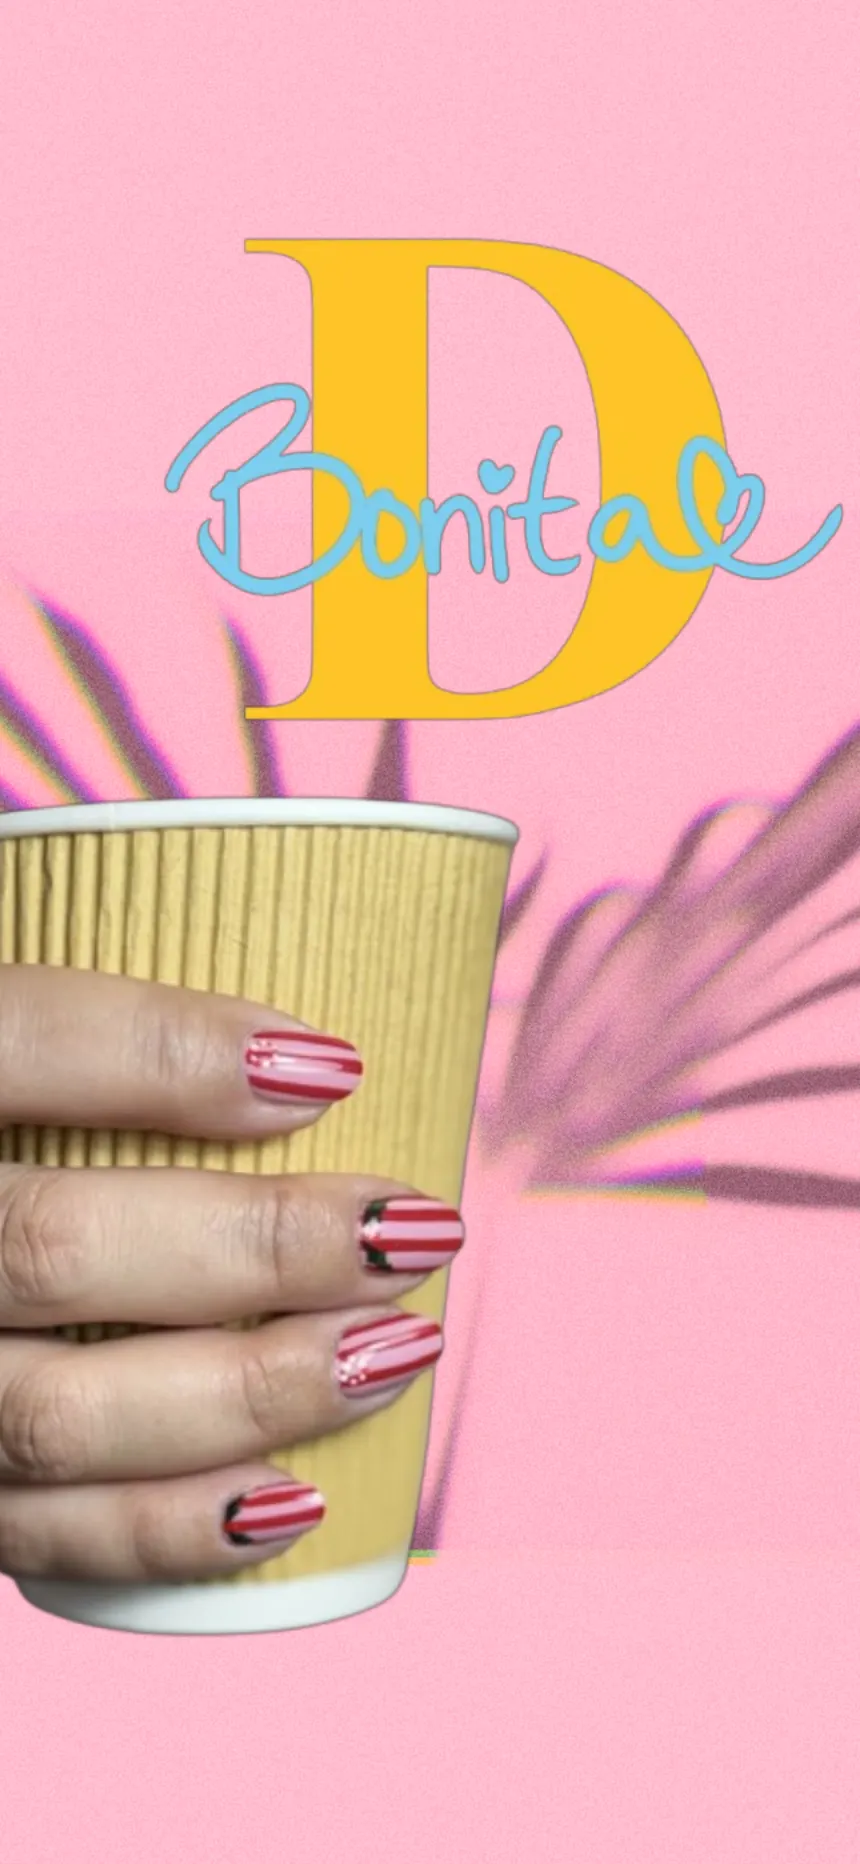
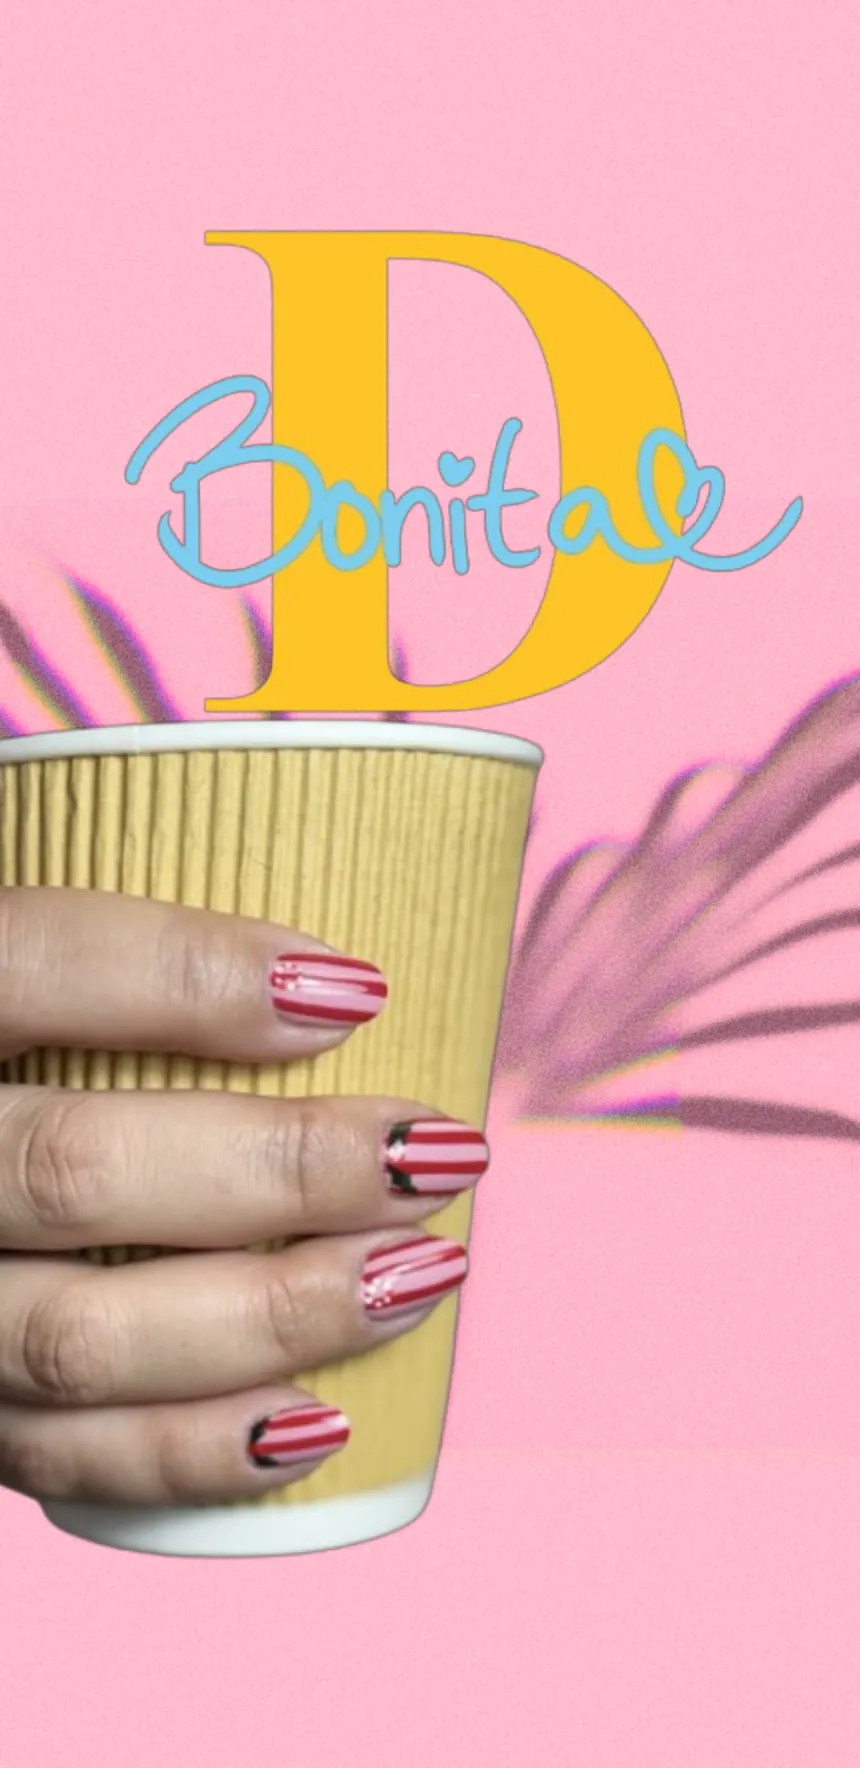
fix: remove jump between hero fallback image and animation
- Recapture fallbacks with the canvas geometry (+20px per side) at
  390x844, 1440x900 and 1920x1080; pick by width and aspect ratio
- Place fallback inside the animated wrapper so both share position
- Fade the animation in (800ms) once UnicornStudio.init() resolves
- Returning visitors with consent see the scene pink, then the fade;
  the static image is only used when consent was not given on load
- Expose `loaded` from the cookie consent provider

Changed region(s): [[0.0, 0.1244, 1.0, 0.9021], [0.9674, 0.2489, 0.9977, 0.28]]

diff --git a/src/components/sections/Hero.tsx b/src/components/sections/Hero.tsx
@@ -1,6 +1,6 @@
 'use client'
 
-import { useEffect, useRef } from 'react'
+import { useEffect, useRef, useState } from 'react'
 import { motion } from 'framer-motion'
 import Script from 'next/script'
 import { useLang } from '@/lib/i18n'
@@ -8,7 +8,7 @@ import { useCookieConsent } from '@/lib/cookie-consent'
 
 declare global {
   interface Window {
-    UnicornStudio?: { init: () => void; isInitialized: boolean }
+    UnicornStudio?: { init: () => Promise<unknown> | void; isInitialized: boolean }
   }
 }
 
@@ -25,11 +25,31 @@ type DOEWithPermission = typeof DeviceOrientationEvent & {
 }
 
 const MAX_PX = 20  // máximo desplazamiento en píxeles
+const SCENE_PINK = '#ffb8cb'  // color de fondo de la escena de UnicornStudio
+const FADE_MS = 800
 
 export default function Hero() {
   const bgRef = useRef<HTMLDivElement>(null)
   const { t } = useLang()
-  const { consent } = useCookieConsent()
+  const { consent, loaded } = useCookieConsent()
+  // Animación lista para mostrarse (UnicornStudio.init() resuelto)
+  const [animReady, setAnimReady] = useState(false)
+  // Si ya había aceptado cookies en una visita anterior, no mostramos la imagen
+  // fija: solo el rosa de fondo y luego el fundido de la animación.
+  const [acceptedOnLoad, setAcceptedOnLoad] = useState<boolean | null>(null)
+
+  useEffect(() => {
+    if (loaded && acceptedOnLoad === null) setAcceptedOnLoad(consent === 'accepted')
+  }, [loaded, consent, acceptedOnLoad])
+
+  const showStatic = loaded && acceptedOnLoad === false
+
+  const initAnimation = () => {
+    const us = window.UnicornStudio
+    if (!us) return
+    const reveal = () => window.setTimeout(() => setAnimReady(true), 250)
+    Promise.resolve(us.init()).then(reveal, reveal)
+  }
 
   const reservar = () => {
     document.getElementById('servicios')?.scrollIntoView({ behavior: 'smooth' })
@@ -97,34 +117,15 @@ export default function Hero() {
   return (
     <section
       id="inicio"
-      className="relative min-h-screen flex items-end overflow-hidden bg-black"
+      className="relative min-h-screen flex items-end overflow-hidden"
       aria-label="Sección principal"
-      style={consent !== 'accepted' ? {
-        background: 'radial-gradient(ellipse at 25% 70%, #1e0a3c 0%, #0d0d1a 45%, #000 100%)',
-      } : undefined}
+      style={{ background: SCENE_PINK }}
     >
       {/*
         Wrapper sobredimensionado: MAX_PX px de margen en cada lado.
         Así aunque se desplace nunca aparecen bordes blancos.
         En desktop UnicornStudio gestiona el parallax internamente (no se aplica transform).
       */}
-      {/*
-        Imagen fija de respaldo con el mismo diseño que la animación.
-        Se ve si la clienta rechaza cookies o mientras carga UnicornStudio;
-        cuando la animación arranca, su canvas queda por encima.
-      */}
-      <picture className="absolute inset-0 z-0">
-        <source media="(min-width: 768px)" srcSet="/img/hero-fallback-desktop.webp" />
-        {/* eslint-disable-next-line @next/next/no-img-element */}
-        <img
-          src="/img/hero-fallback-mobile.webp"
-          alt=""
-          fetchPriority="high"
-          decoding="async"
-          className="w-full h-full object-cover"
-        />
-      </picture>
-
       <div
         ref={bgRef}
         className="absolute z-0 md:inset-0"
@@ -136,18 +137,41 @@ export default function Hero() {
         }}
       >
         {/*
+          Imagen fija de respaldo: captura de la escena con la misma geometría
+          que el canvas (wrapper +MAX_PX por lado), una por tamaño de pantalla
+          habitual. Solo para quien no ha aceptado cookies antes de entrar; si
+          acepta ahora, la animación aparece encima con un fundido.
+        */}
+        <picture
+          className="absolute inset-0 transition-opacity duration-300"
+          style={{ opacity: showStatic ? 1 : 0 }}
+        >
+          <source media="(min-width: 768px) and (min-aspect-ratio: 16/9)" srcSet="/img/hero-fallback-1920.webp" />
+          <source media="(min-width: 768px)" srcSet="/img/hero-fallback-1440.webp" />
+          {/* eslint-disable-next-line @next/next/no-img-element */}
+          <img
+            src="/img/hero-fallback-mobile.webp"
+            alt=""
+            fetchPriority="high"
+            decoding="async"
+            className="w-full h-full object-cover"
+          />
+        </picture>
+
+        {/*
           Mobile: pointer-events none → UnicornStudio no recibe eventos táctiles
           propios (que eran los que movían el canvas y mostraban bordes).
           Nosotros aplicamos el desplazamiento vía CSS transform en el wrapper.
         */}
         <div
-          className="md:hidden absolute inset-0"
-          style={{ pointerEvents: 'none' }}
+          className="md:hidden absolute inset-0 transition-opacity"
+          style={{ pointerEvents: 'none', opacity: animReady ? 1 : 0, transitionDuration: `${FADE_MS}ms` }}
           data-us-project="0z4NtvQtWlhYgpvjWpTQ"
         />
         {/* Desktop: comportamiento original sin cambios */}
         <div
-          className="hidden md:block absolute inset-0"
+          className="hidden md:block absolute inset-0 transition-opacity"
+          style={{ opacity: animReady ? 1 : 0, transitionDuration: `${FADE_MS}ms` }}
           data-us-project="0z4NtvQtWlhYgpvjWpTQ"
         />
       </div>
@@ -233,7 +257,7 @@ export default function Hero() {
         <Script
           src="https://cdn.jsdelivr.net/gh/hiunicornstudio/unicornstudio.js@v2.1.12/dist/unicornStudio.umd.js"
           strategy="afterInteractive"
-          onLoad={() => { window.UnicornStudio?.init() }}
+          onReady={initAnimation}
         />
       )}
     </section>

diff --git a/src/lib/cookie-consent.tsx b/src/lib/cookie-consent.tsx
@@ -6,22 +6,27 @@ export type ConsentStatus = 'accepted' | 'rejected' | null
 
 interface ConsentCtx {
   consent: ConsentStatus
+  /** true once the saved choice has been read from localStorage */
+  loaded: boolean
   accept: () => void
   reject: () => void
 }
 
 const ConsentContext = createContext<ConsentCtx>({
   consent: null,
+  loaded: false,
   accept: () => {},
   reject: () => {},
 })
 
 export function CookieConsentProvider({ children }: { children: ReactNode }) {
   const [consent, setConsent] = useState<ConsentStatus>(null)
+  const [loaded, setLoaded] = useState(false)
 
   useEffect(() => {
     const saved = localStorage.getItem('dbonita_cookies_consent') as ConsentStatus | null
     if (saved === 'accepted' || saved === 'rejected') setConsent(saved)
+    setLoaded(true)
   }, [])
 
   const accept = () => {
@@ -35,7 +40,7 @@ export function CookieConsentProvider({ children }: { children: ReactNode }) {
   }
 
   return (
-    <ConsentContext.Provider value={{ consent, accept, reject }}>
+    <ConsentContext.Provider value={{ consent, loaded, accept, reject }}>
       {children}
     </ConsentContext.Provider>
   )
